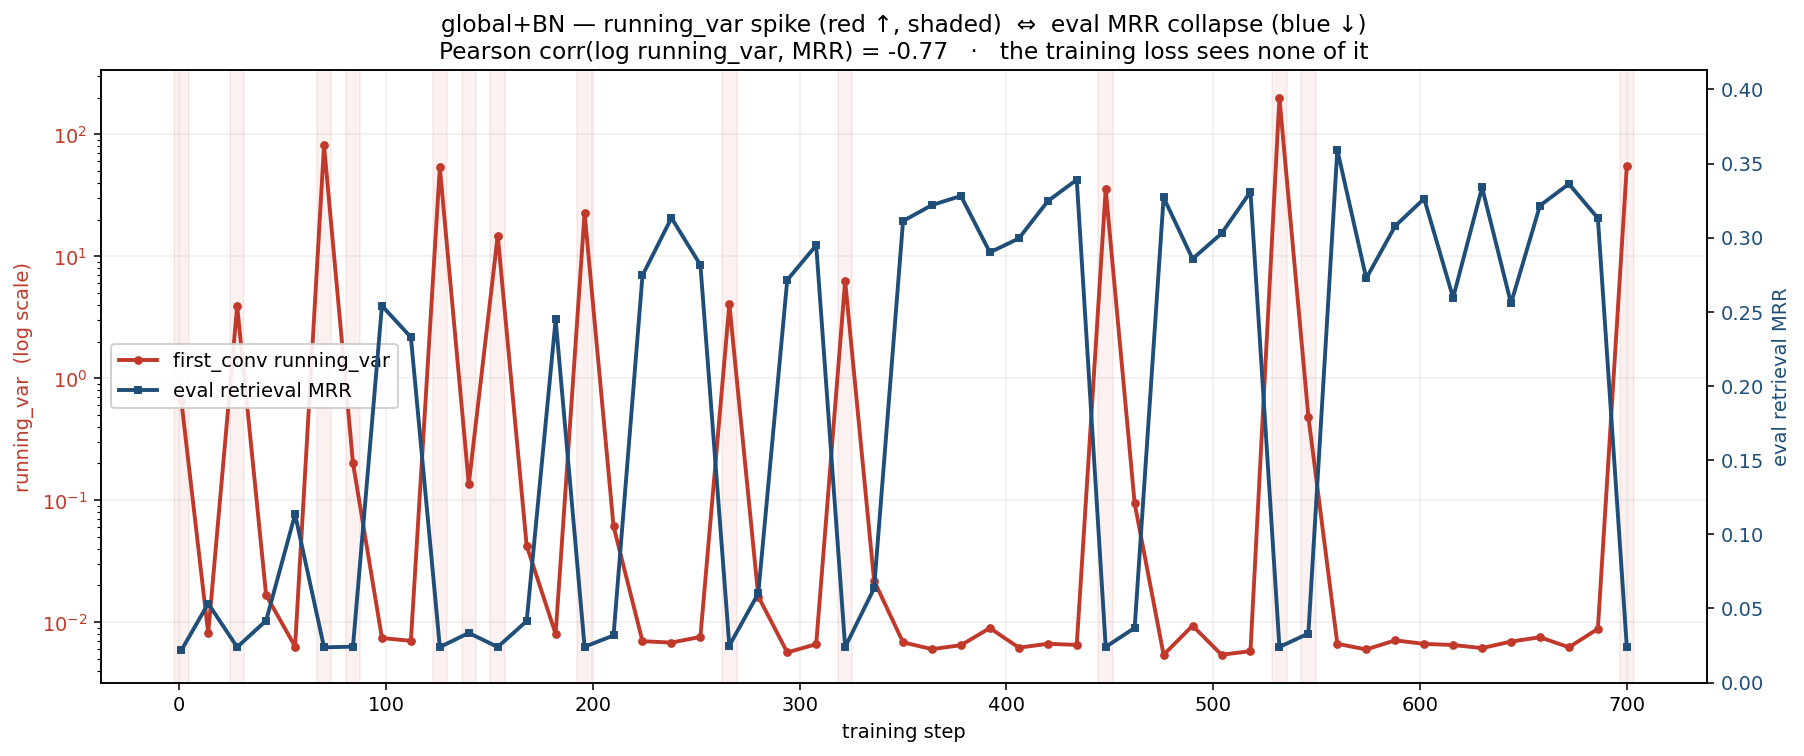
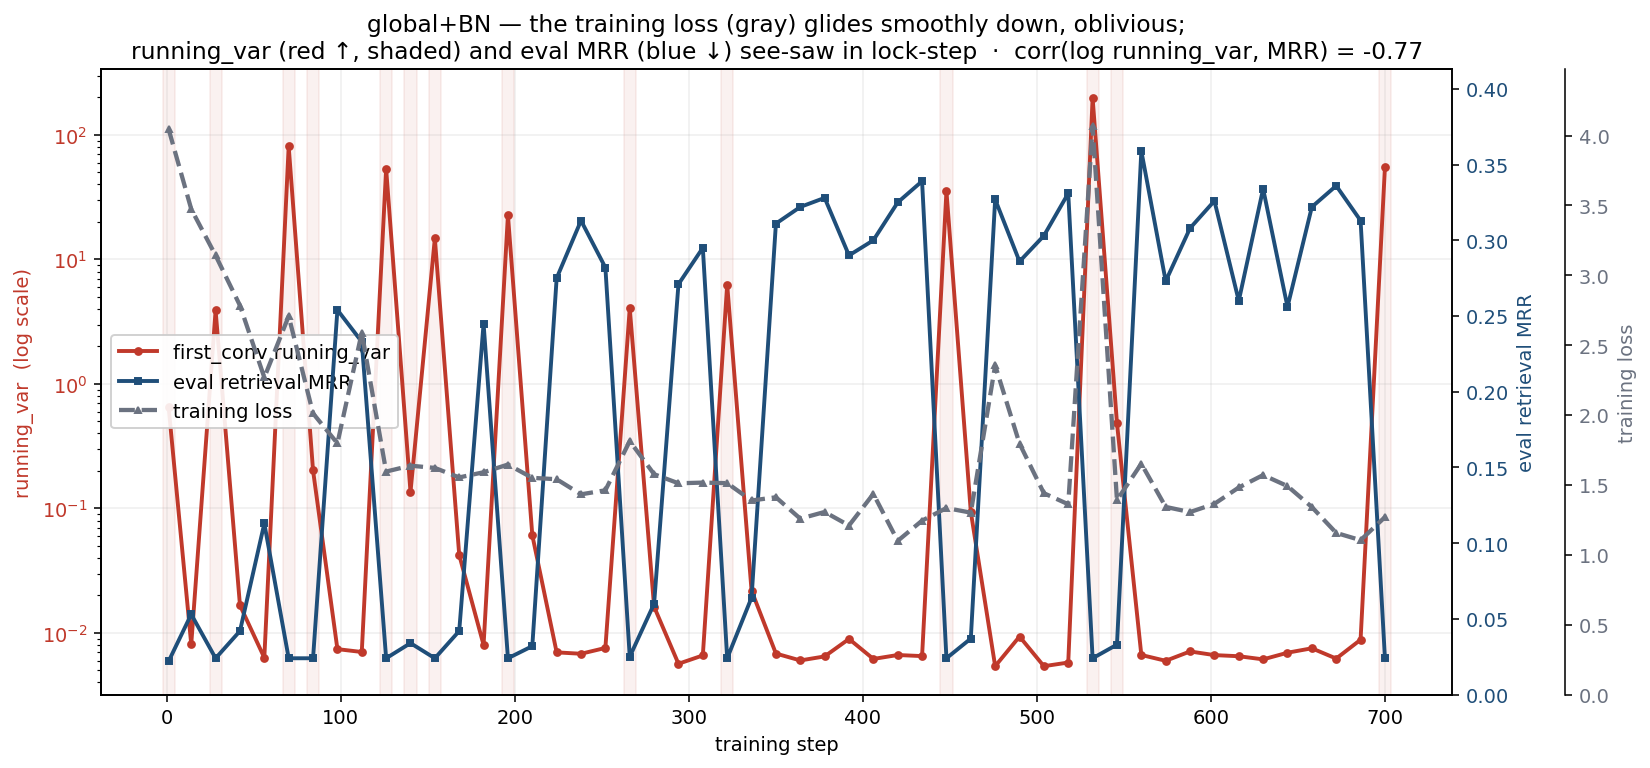
bn_anticorrelation: overlay training loss to show it glides while running_var/MRR see-saw

Changed region(s): [[0.0, 0.0, 0.9891, 1.0], [0.0927, 0.1521, 0.1236, 0.3042]]

diff --git a/src/plots.py b/src/plots.py
@@ -57,11 +57,14 @@ def plot_all(results, data_stats, out="figures/four_variants.png"):
 
 
 def plot_bn_anticorrelation(hist, out="figures/bn_anticorrelation.png"):
-    """global+BN only: overlay running_var (log, left) and eval MRR (right) on one axis
-    so the anti-correlation is visible — every running_var spike == an MRR collapse."""
+    """global+BN only: overlay running_var (log, left), eval MRR (right) and training
+    loss (far right) on one plot. The running_var and MRR see-saw in lock-step, while
+    the loss glides smoothly down — oblivious to the whole thing."""
     step = np.array(hist["step"]); rv = np.array(hist["bn_running_var"]); mrr = np.array(hist["mrr"])
-    c_rv, c_mrr = "#c0392b", "#1f4e79"
-    fig, ax1 = plt.subplots(figsize=(13, 5.5))
+    loss = np.array(hist["loss"]) if "loss" in hist else None
+    c_rv, c_mrr, c_loss = "#c0392b", "#1f4e79", "#6b7280"
+    fig, ax1 = plt.subplots(figsize=(13.5, 5.8))
+    fig.subplots_adjust(right=0.84)   # room for two right-hand axes
 
     # shade the poisoned checkpoints (running_var well above the clean floor)
     thr = 0.1
@@ -79,12 +82,24 @@ def plot_bn_anticorrelation(hist, out="figures/bn_anticorrelation.png"):
     ax2.set_ylabel("eval retrieval MRR", color=c_mrr); ax2.tick_params(axis="y", labelcolor=c_mrr)
     ax2.set_ylim(0, max(0.4, float(mrr.max()) * 1.15))
 
+    if loss is not None:
+        ax3 = ax1.twinx()
+        ax3.spines["right"].set_position(("outward", 58))
+        ax3.plot(step, loss, color=c_loss, lw=2.2, ls="--", marker="^", ms=3, zorder=2,
+                 label="training loss")
+        ax3.set_ylabel("training loss", color=c_loss); ax3.tick_params(axis="y", labelcolor=c_loss)
+        ax3.set_ylim(0, float(loss.max()) * 1.1)
+
     r = float(np.corrcoef(np.log10(rv), mrr)[0, 1])      # anti-correlation, quantified
-    ax1.set_title("global+BN — running_var spike (red ↑, shaded)  ⇔  eval MRR collapse (blue ↓)\n"
-                  f"Pearson corr(log running_var, MRR) = {r:+.2f}   ·   the training loss sees none of it")
-    h1, l1 = ax1.get_legend_handles_labels(); h2, l2 = ax2.get_legend_handles_labels()
-    ax1.legend(h1 + h2, l1 + l2, loc="center left", framealpha=0.9)
-    fig.tight_layout(); fig.savefig(out, dpi=140, facecolor="white", bbox_inches="tight")
+    ax1.set_title("global+BN — the training loss (gray) glides smoothly down, oblivious;\n"
+                  f"running_var (red ↑, shaded) and eval MRR (blue ↓) see-saw in lock-step  ·  "
+                  f"corr(log running_var, MRR) = {r:+.2f}")
+    handles = ax1.get_legend_handles_labels()[0] + ax2.get_legend_handles_labels()[0]
+    labels = ax1.get_legend_handles_labels()[1] + ax2.get_legend_handles_labels()[1]
+    if loss is not None:
+        handles += ax3.get_legend_handles_labels()[0]; labels += ax3.get_legend_handles_labels()[1]
+    ax1.legend(handles, labels, loc="center left", framealpha=0.9)
+    fig.savefig(out, dpi=140, facecolor="white", bbox_inches="tight")
     print(f"saved {out}  (corr={r:+.2f})")
 
 

diff --git a/src/train.py b/src/train.py
@@ -82,7 +82,7 @@ def train_variant(cfg, n_items=3072, steps=700, batch=48, eval_every=20,
         model.global_div = c.abs().amax(dim=(1, 2)).median().detach()
     opt = torch.optim.Adam(model.parameters(), lr=lr)
 
-    hist = {k: [] for k in ["step", "bn_running_var", "mrr", "pcpc", "size_margin", "batch_outlier"]}
+    hist = {k: [] for k in ["step", "bn_running_var", "mrr", "pcpc", "size_margin", "batch_outlier", "loss"]}
     for step in range(1, steps + 1):
         idx = torch.randint(0, len(ds), (batch,), generator=rng_b)   # WITH replacement
         pts = pts_all[idx]; size = size_all[idx]; fam = fam_all[idx]
@@ -96,7 +96,7 @@ def train_variant(cfg, n_items=3072, steps=700, batch=48, eval_every=20,
             if cfg["norm_layer"] == "bn":
                 rv = model.first_conv[1].running_var.mean().item()
             b_out = float(torch.from_numpy(ds.is_outlier)[idx].float().mean())
-            for k, v in zip(hist, [step, rv, mrr, pcpc, sm, b_out]):
+            for k, v in zip(hist, [step, rv, mrr, pcpc, sm, b_out, float(loss.item())]):
                 hist[k].append(v)
             log(f"  step {step:4d}  loss {loss.item():.3f}  rv {rv:>10.3e}  "
                 f"MRR {mrr:.3f}  pcpc {pcpc:.3f}  size_margin {sm:.4f}")